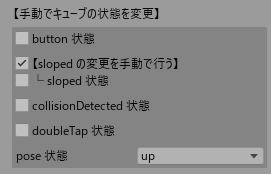
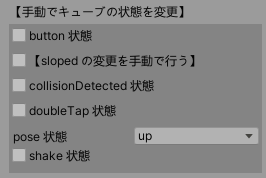
Update documents for Simulator's 'shake'

diff --git a/docs/sys_simulator.md b/docs/sys_simulator.md
@@ -557,6 +557,30 @@ public override Cube.PoseType pose {
 }
 ```
 
+### シェイク検出
+
+> 2.2.0 の機能です。
+シェイク検出のシミュレーションは未実装です。
+
+`shake` がインスペクターで手動で変更された時に、対応コールバック `shakeCallback` を呼び出します。
+
+```c#
+// CubeSimImpl_v2_2_0.cs
+protected bool _shake;
+public override bool shake
+{
+    get {return this._shake;}
+    internal set
+    {
+        if (this._shake!=value){
+            this.shakeCallback?.Invoke(value);
+        }
+        this._shake = value;
+    }
+}
+```
+
+
 ## 4.3. コマンドの実行
 
 ### 命令処理の流れ
